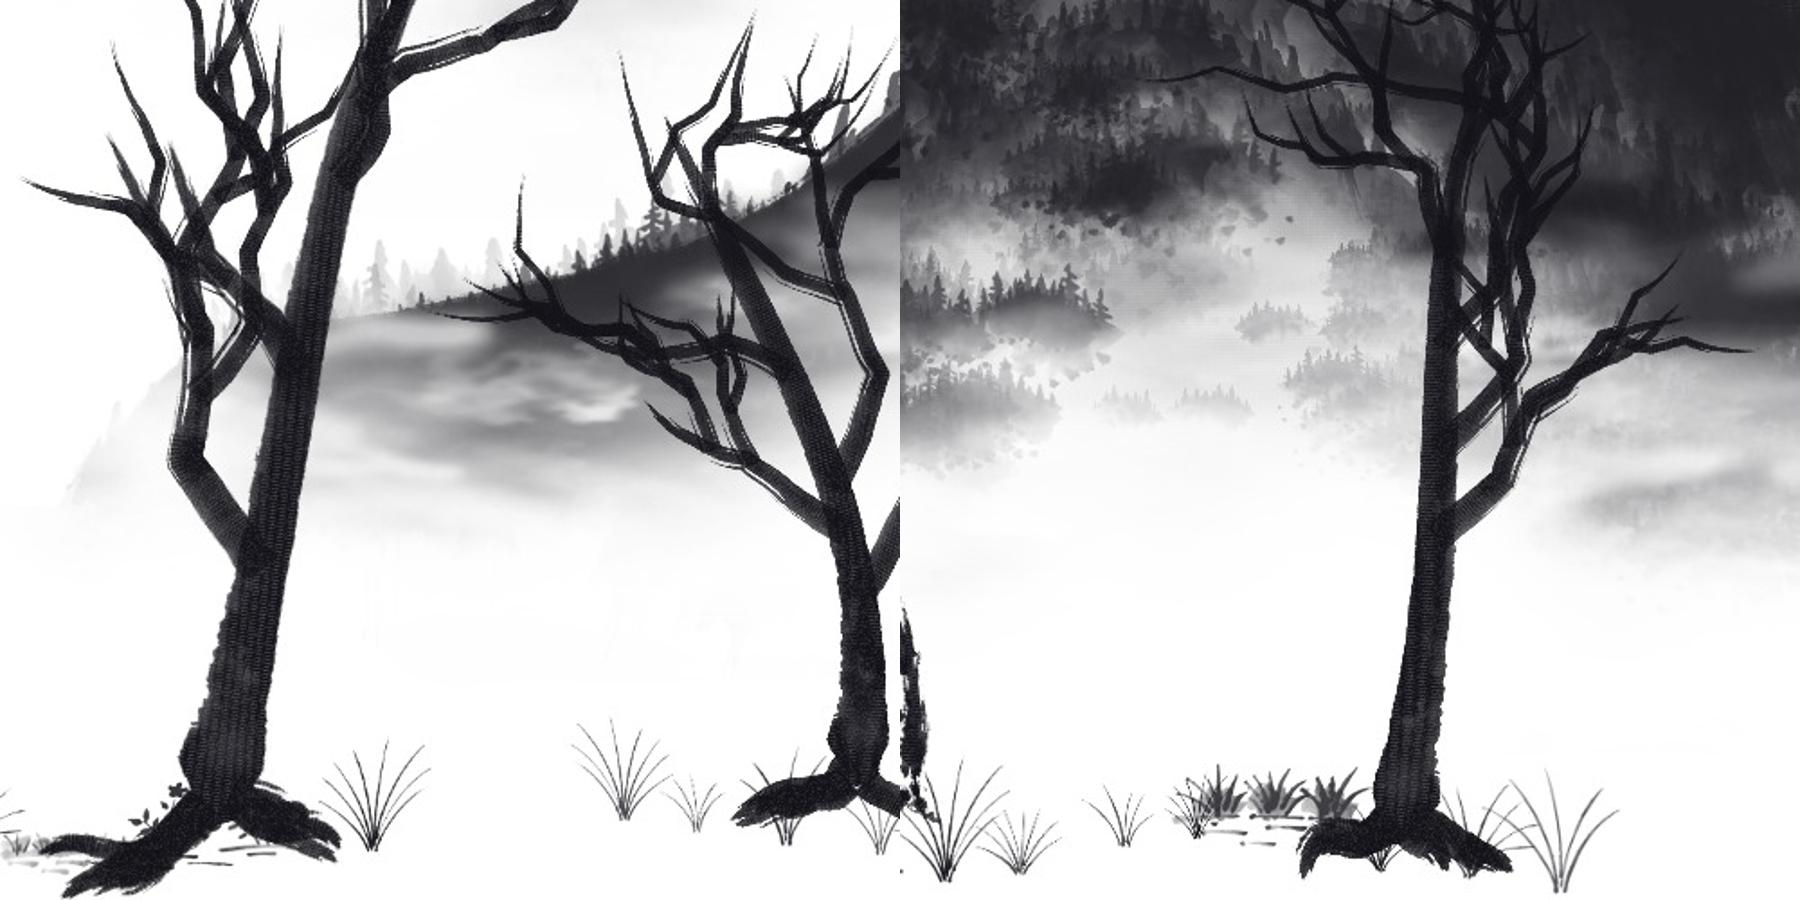
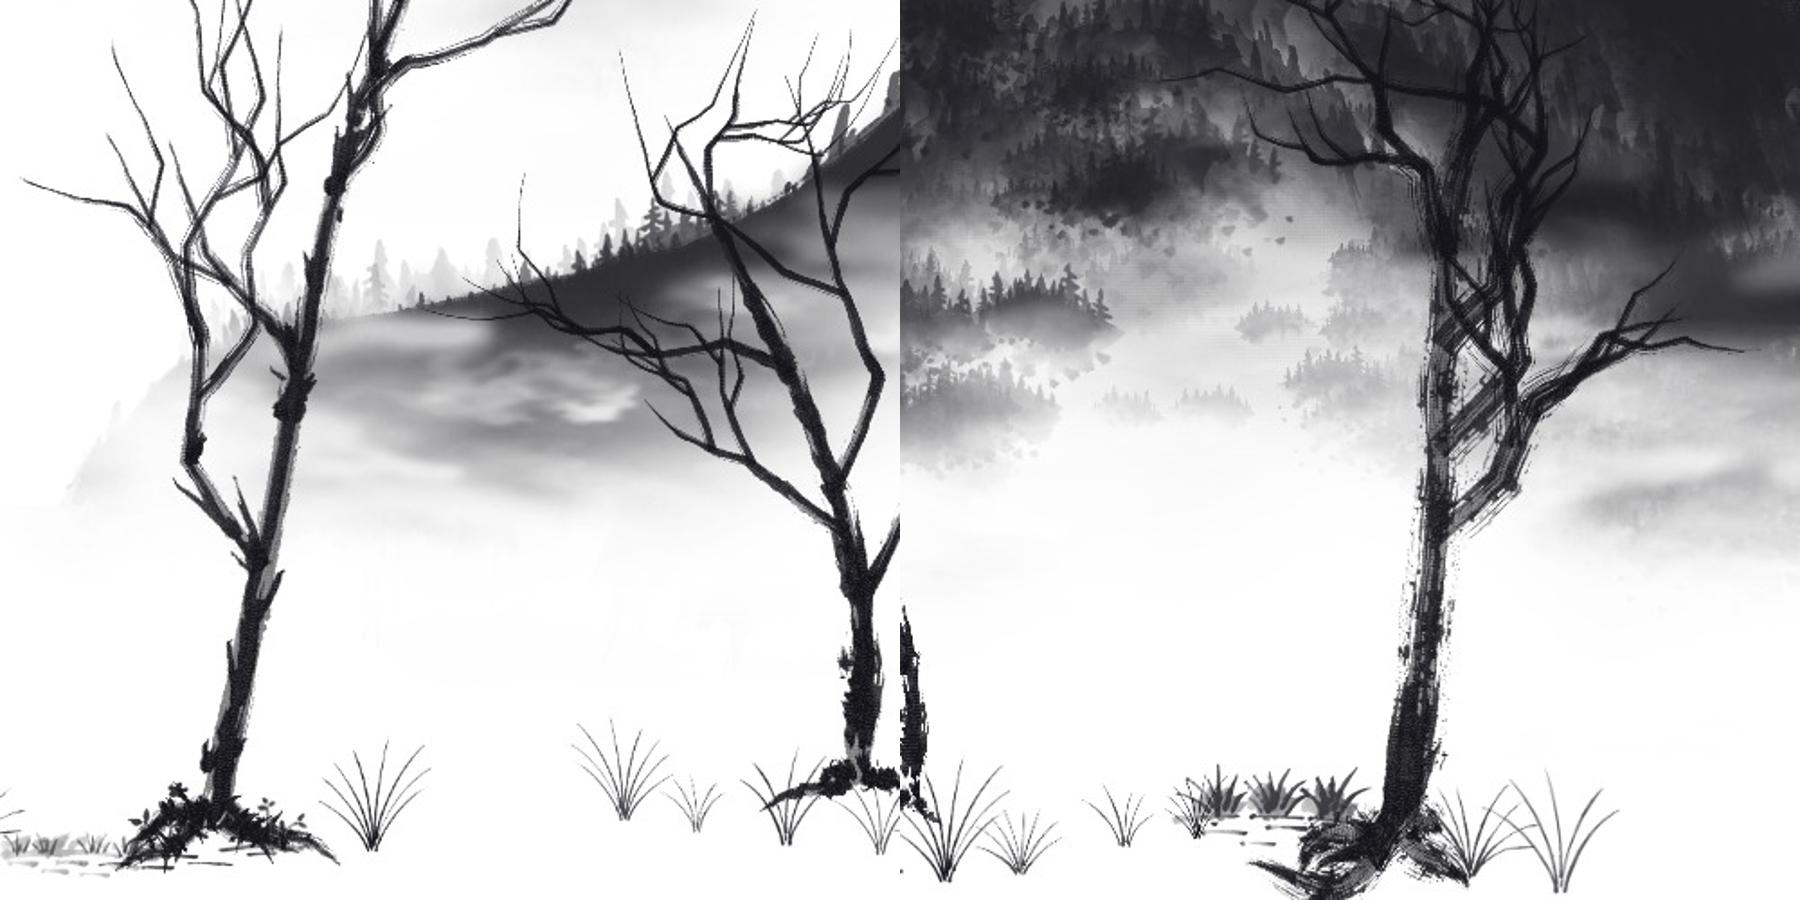
Bare trunks dry again, with a pale stroke laid under them on big trees

diff --git a/web/room/paint.js b/web/room/paint.js
@@ -1093,13 +1093,15 @@
     const cv = document.createElement('canvas'); cv.width = cw; cv.height = chh; const g = cv.getContext('2d'), home = () => g.setTransform(dpr, 0, 0, dpr, -ox * dpr, -oy * dpr); home();
     // -- limbs. Trunk and branches are the same thing at different sizes: a stretch of a real trunk (from u0 of the piece
     //    to its tip, so every limb runs out to a point; further along the piece = thinner) in thin slices along a path
-    const kitAll = kitT.concat(kitU), kitDry = kitAll.filter((q) => q.tone < 0.42), kitFull = kitAll.filter((q) => q.tone >= 0.42), qT = pick(zhe ? kitBT : kind === 'bamboo' ? kitBS : bare && kitDry.length && L < 0.3 * H ? kitDry : bare && kitFull.length ? kitFull : kitAll)   /* a dry, streaky stroke only for a small bare tree: on a big one its streaks, enlarged, were a bundle of cables, and where the trunk gives itself up into limbs lying over each other, a lattice (Yang 11-19) */, fl = R() < 0.5 ? -1 : 1, th0 = zhe ? clamp(0.85 * L * qT.h / qT.w, 0.025 * H, 0.07 * H) : clamp((pine ? 2.7 : 1.6) * L * qT.h / qT.w, 0.006 * H, (pine ? 0.11 : 0.075) * H);   // an old pine is sparse but never gaunt: a stout trunk, stout limbs (as thin as a pole it looked sickly, Yang 11-19)
+    const kitAll = kitT.concat(kitU), kitDry = kitAll.filter((q) => q.tone < 0.42), kitFull = kitAll.filter((q) => q.tone >= 0.42), qT = pick(zhe ? kitBT : kind === 'bamboo' ? kitBS : bare && kitDry.length ? kitDry : kitAll)   /* bare wood = a dry, streaky stroke. On a big tree its streaks, enlarged, were a bundle of cables with paper between them, a lattice where limbs lie over each other; a full stroke instead was smooth and coarse, a pole (Yang 11-19, both). So: the dry stroke stays, and a big bare tree gets a thinner, paler full stroke laid under every limb (back, below): the streaks keep their grain but stand on wood, not on paper */, fl = R() < 0.5 ? -1 : 1, th0 = zhe ? clamp(0.85 * L * qT.h / qT.w, 0.025 * H, 0.07 * H) : clamp((pine ? 2.7 : 1.6) * L * qT.h / qT.w, 0.006 * H, (pine ? 0.11 : 0.075) * H);   // an old pine is sparse but never gaunt: a stout trunk, stout limbs (as thin as a pole it looked sickly, Yang 11-19)
     const wrapR = (v) => Math.atan2(Math.sin(v), Math.cos(v));
-    const limb = (Q, u0, G = g, X = ox, Y = oy, q_ = qT, th_ = th0) => { const m = Q.length, cl = [0]; for (let i = 1; i < m; i++) cl.push(cl[i - 1] + Math.hypot(Q[i][0] - Q[i - 1][0], Q[i][1] - Q[i - 1][1])); const Lq = cl[m - 1], ds = 2, tn = Q.map((_, i) => { const A = Q[Math.max(0, i - 3)], B = Q[Math.min(m - 1, i + 3)], l = Math.hypot(B[0] - A[0], B[1] - A[1]) || 1; return [(B[0] - A[0]) / l, (B[1] - A[1]) / l]; }); let j = 0;   // tn: the way the path runs at each of its points. A slice is turned by the two nearest, blended: turned by its segment alone every slice of a segment stood the same way and the next segment's a little otherwise, and a dry stroke's streaks, far from the middle of a thick trunk, broke at every point into steps (a bundle of kinked cables, Yang 11-19)
+    const limbRaw = (Q, u0, G = g, X = ox, Y = oy, q_ = qT, th_ = th0) => { const m = Q.length, cl = [0]; for (let i = 1; i < m; i++) cl.push(cl[i - 1] + Math.hypot(Q[i][0] - Q[i - 1][0], Q[i][1] - Q[i - 1][1])); const Lq = cl[m - 1], ds = 2, tn = Q.map((_, i) => { const A = Q[Math.max(0, i - 3)], B = Q[Math.min(m - 1, i + 3)], l = Math.hypot(B[0] - A[0], B[1] - A[1]) || 1; return [(B[0] - A[0]) / l, (B[1] - A[1]) / l]; }); let j = 0;   // tn: the way the path runs at each of its points. A slice is turned by the two nearest, blended: turned by its segment alone every slice of a segment stood the same way and the next segment's a little otherwise, and a dry stroke's streaks, far from the middle of a thick trunk, broke at every point into steps (a bundle of kinked cables, Yang 11-19)
       for (let a = 0; a < Lq; a += ds) { while (j < m - 2 && cl[j + 1] < a) j++; const f = clamp((a - cl[j]) / Math.max(1e-6, cl[j + 1] - cl[j]), 0, 1), T0 = tn[j], T1 = tn[j + 1], vx = T0[0] + (T1[0] - T0[0]) * f, vy = T0[1] + (T1[1] - T0[1]) * f, l = Math.hypot(vx, vy) || 1, tx = vx / l, ty = vy / l, ex = Math.min(1.5, 0.5 * th_ * Math.abs(T0[0] * T1[1] - T0[1] * T1[0]) * ds / Math.max(1, cl[j + 1] - cl[j]));   // ex: on a bend the slices fan apart on the outer side: each a little wider there, so no paper shows between them
         G.setTransform(dpr * tx, dpr * ty, -fl * dpr * ty, fl * dpr * tx, dpr * (Q[j][0] + (Q[j + 1][0] - Q[j][0]) * f - X), dpr * (Q[j][1] + (Q[j + 1][1] - Q[j][1]) * f - Y));   // barely overlapping: a trunk's grey wash showed every overlap as a dark hair, the bark as a comb (r010)
         G.drawImage(q_.im, clamp((u0 + (1 - u0) * a / Lq) * q_.w, 0, q_.w - 2), 0, Math.max(1, (ds + 0.3) / Lq * (1 - u0) * q_.w), q_.h, -ex / 2, -q_.c * th_, ds + 0.3 + ex, th_); }
       G.setTransform(dpr, 0, 0, dpr, -X * dpr, -Y * dpr); };
+    const back = bare && !zhe && kitFull.length && L >= 0.3 * H ? kitFull[((Math.abs(d.seed) * 40503) >>> 0) % kitFull.length] : null,
+      limb = (Q, u0, G = g, X = ox, Y = oy, q_ = qT, th_ = th0) => { if (back && q_ === qT) { const al = G.globalAlpha; G.globalAlpha = al * 0.5; limbRaw(Q, u0, G, X, Y, back, th_ * 0.62); G.globalAlpha = al; } limbRaw(Q, u0, G, X, Y, q_, th_); };
     limb(P, 0);
     // -- roots (Yang 11-19: "mấy cái cây này đâu có rễ?"; a sheet of whole tree feet came out as Western pen drawing, and he
     //    chose: grown by code from the brush strokes, as the branches are, no pasted foot). A root is a limb: the thin end

diff --git a/DESIGN.md b/DESIGN.md
@@ -178,3 +178,5 @@ Water as layer divider + whole-mountain mirror image = modern ink style (classic
 - Near land has mist at its foot (11-19, Yang): wisps of sheet AA along the foot of bank and rock, own plain build in the land block (not the mountain sea-of-mist), amount = mist slider.
 
 - Trunk fix (11-19): limb slices turned by blended point tangents (per-segment turn broke dry streaks into steps); big bare trees (L >= 0.3H) take a full-toned trunk stroke, dry streaky ones only small trees (enlarged streaks = cables, lattice at forks).
+
+- Trunk, second pass (11-19, Yang rejected the full-stroke trunk: "thân trơn và hơi thô quá"): bare wood stays the dry streaky stroke; big bare trees (L >= 0.3H) get a thinner, paler full stroke under every limb so streaks stand on wood, not paper. Lattice at forks reduced, not gone.
